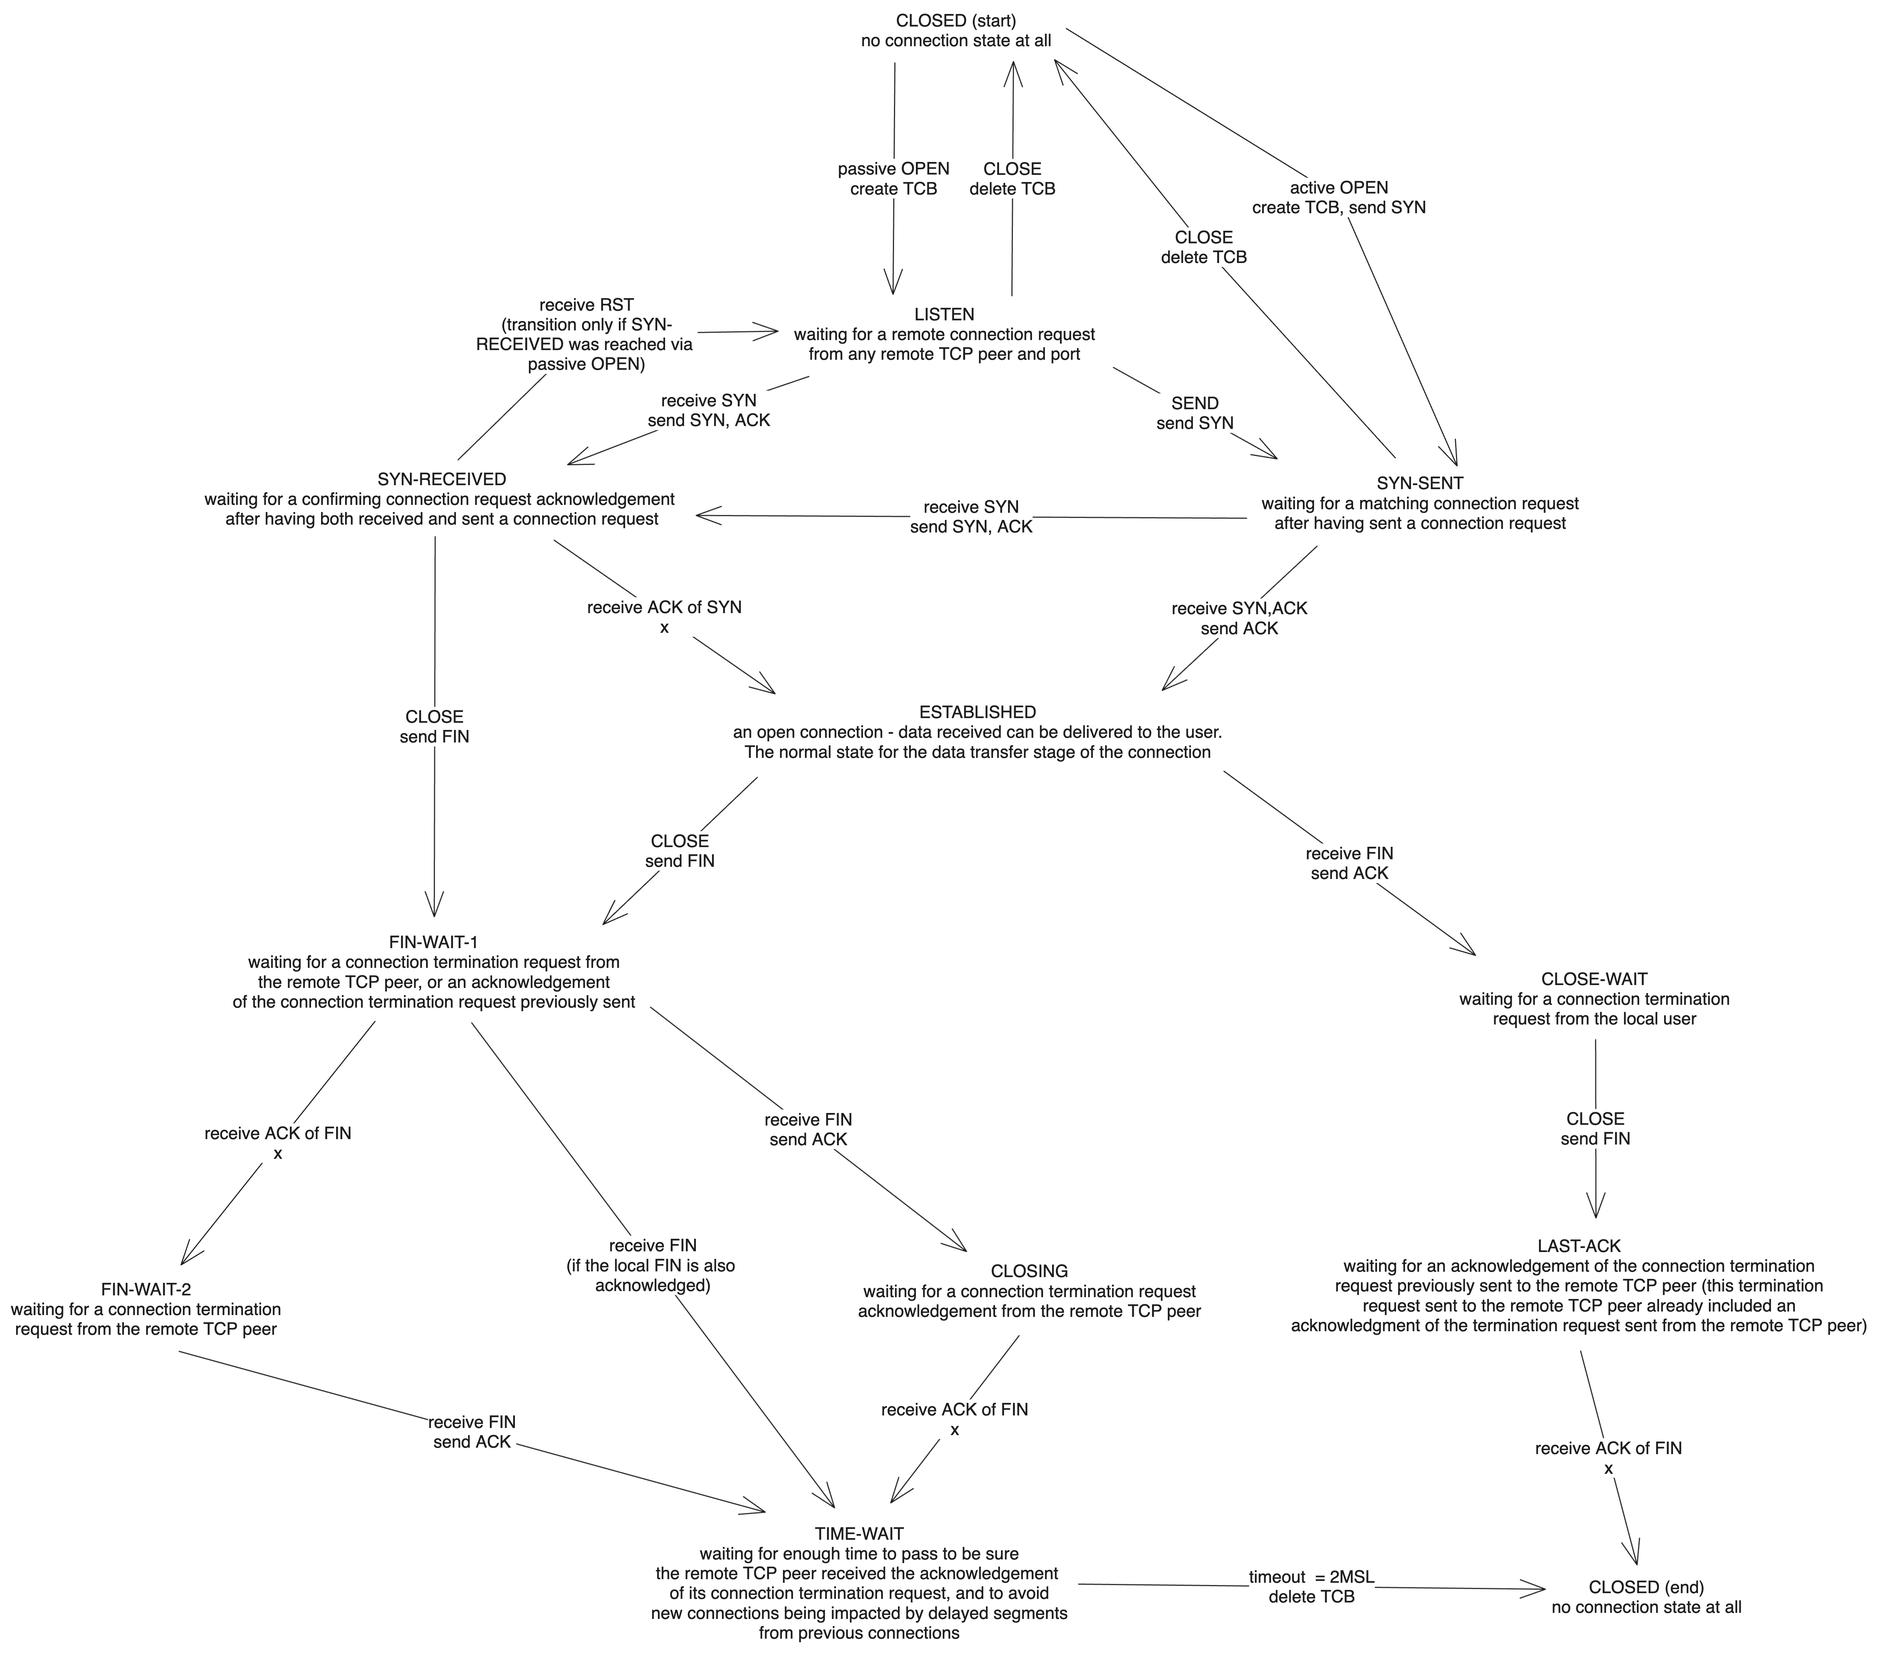
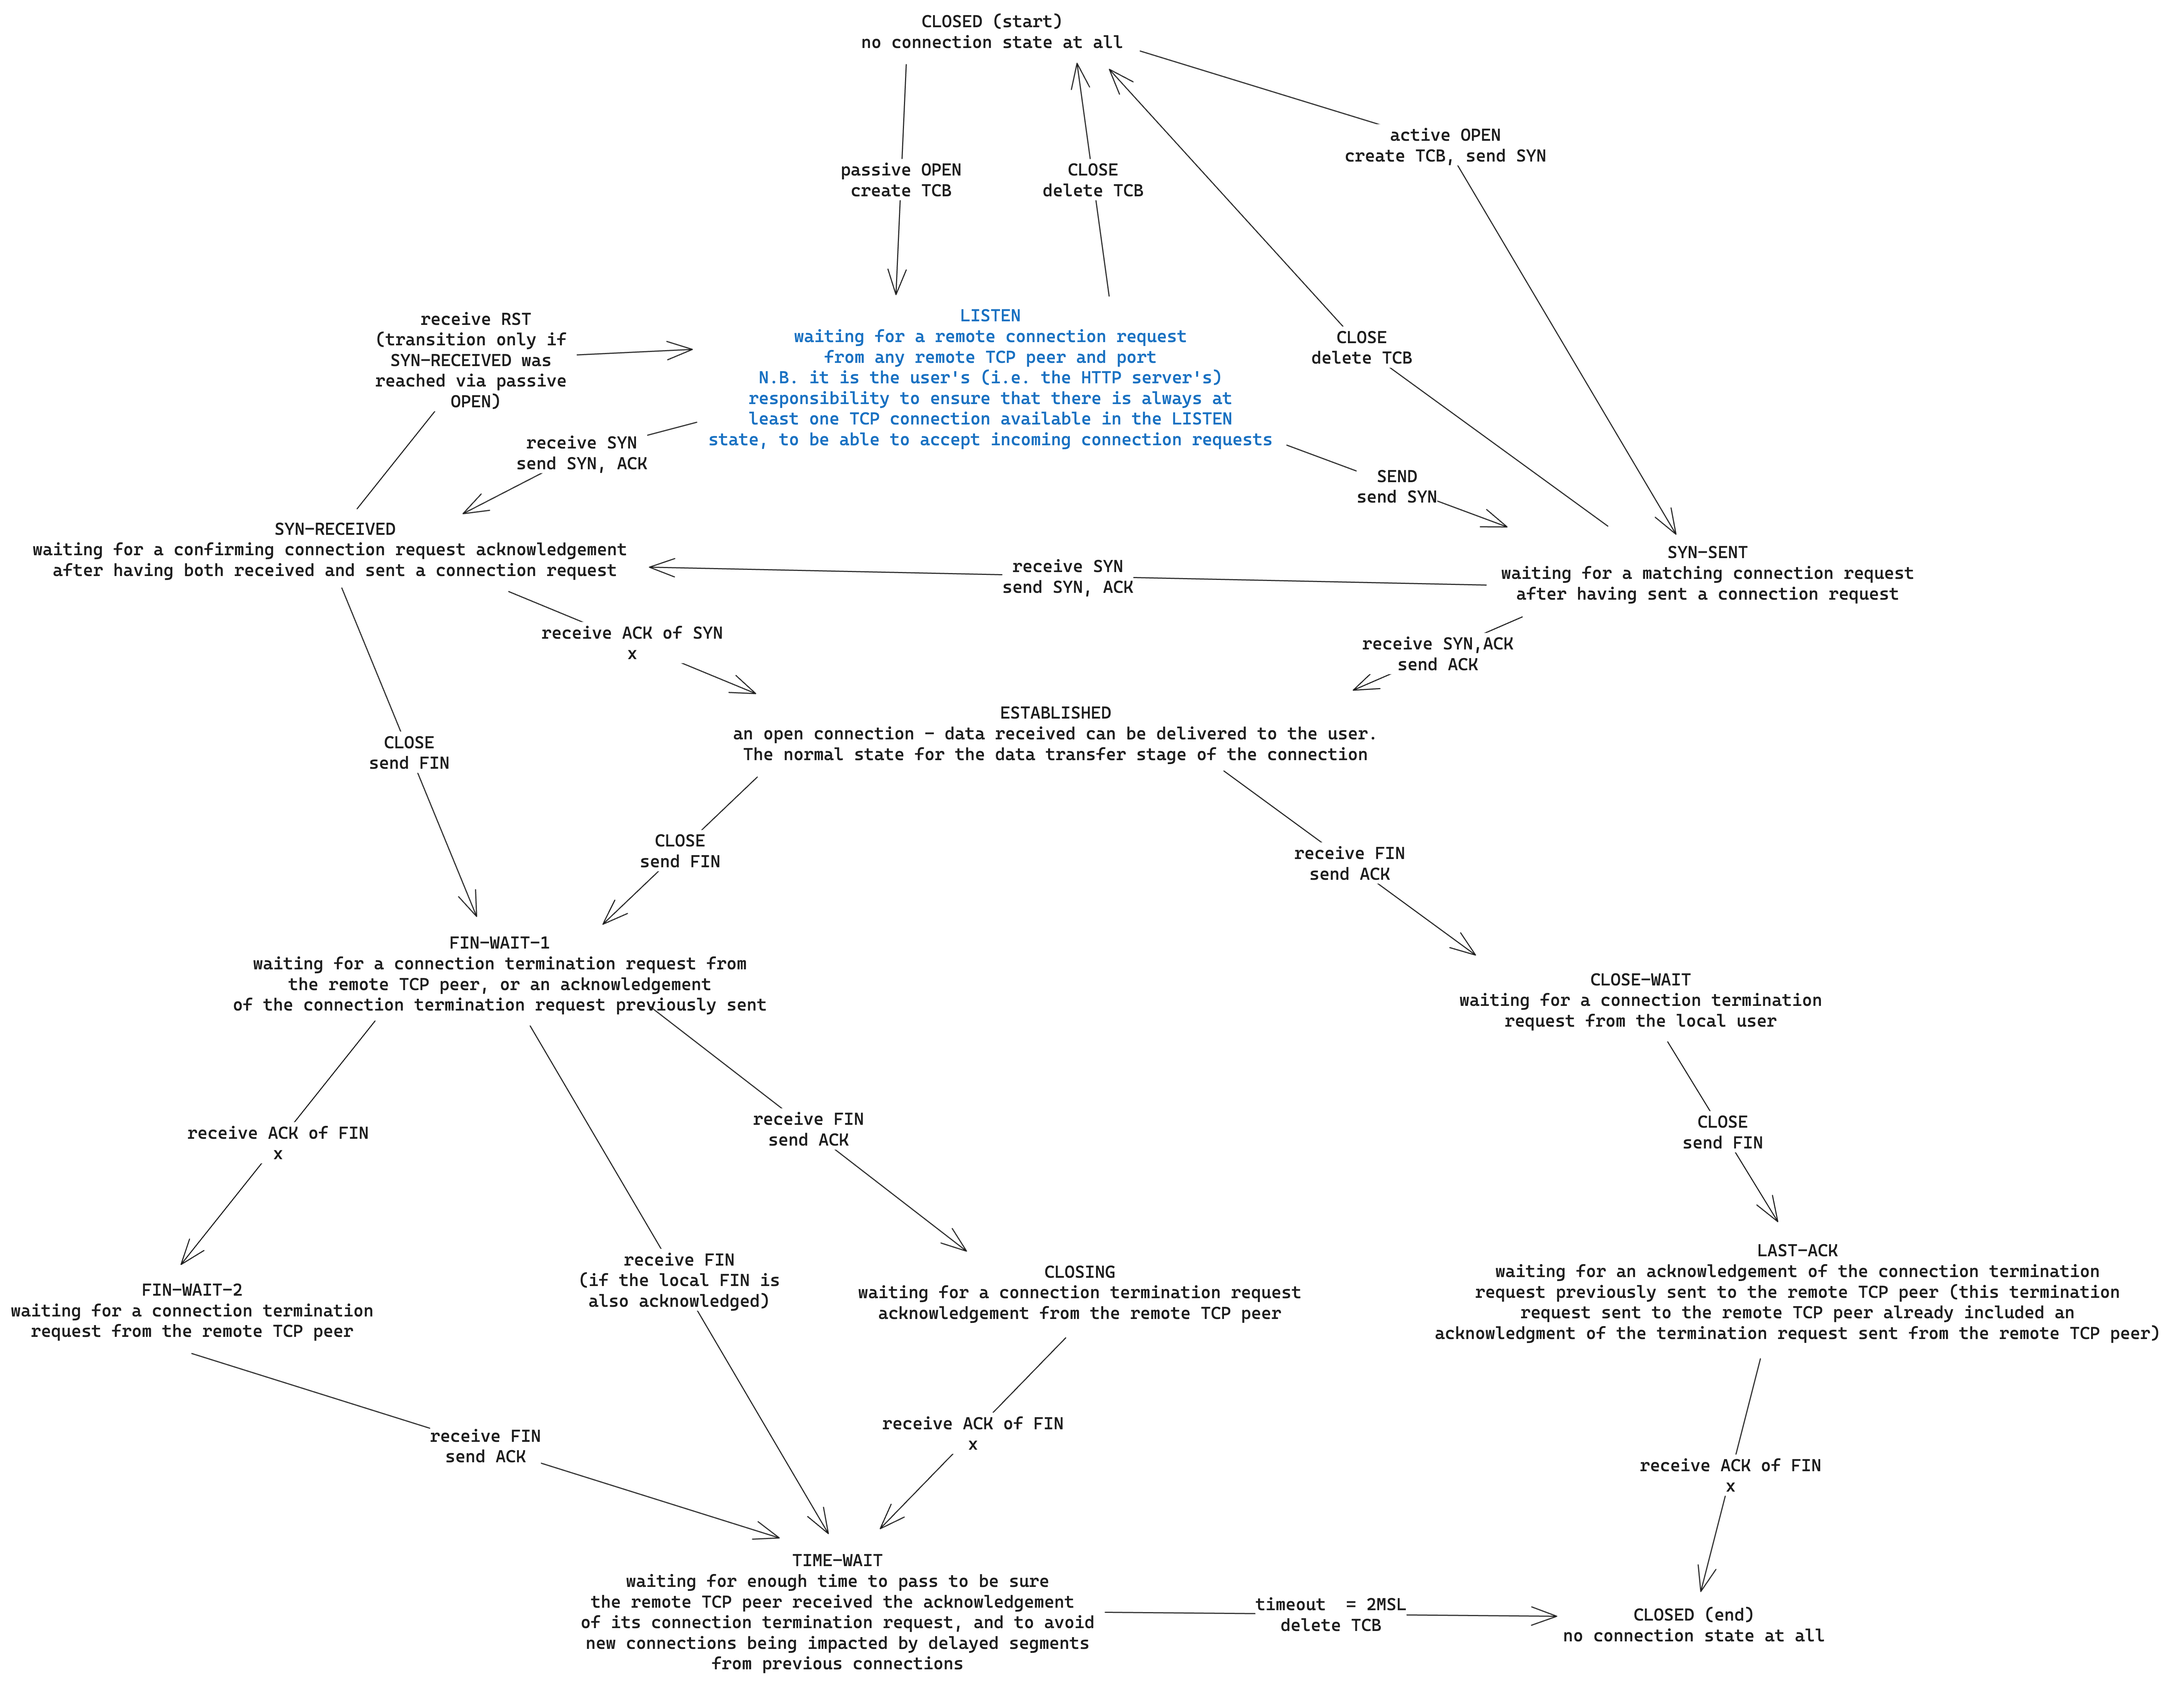
sketching out TCP implementation

diff --git a/tcp/main.c b/tcp/main.c
@@ -32,11 +32,17 @@ typedef struct {
   ip_datagram_type type;
 } ip_datagram;
 
-typedef enum { OPEN, CLOSE } user_action_type;
+typedef enum { OPEN, SEND, RECEIVE, CLOSE, ABORT, STATUS } user_action_type;
 
 typedef struct {
   user_action_type type;
 } user_action;
+
+typedef enum {
+  USER_TIMEOUT,
+  RETRANSMISSION_TIMEOUT,
+  TIME_WAIT_TIMEOUT
+} timeout_type;
 
 // threads:
 // 1. main thread: accept and process incoming packets
@@ -54,37 +60,52 @@ user_action take_user_action(void) {
   // TODO
 }
 
-void process_syn(ip_datagram datagram, connection *connections) {
+void process_syn(ip_datagram datagram, connection *connection) {
   // TODO
 }
 
-void process_ack(ip_datagram datagram, connection *connections) {
+void process_ack(ip_datagram datagram, connection *connection) {
   // TODO
 }
 
-void process_fin(ip_datagram datagram, connection *connections) {
+void process_fin(ip_datagram datagram, connection *connection) {
   // TODO
+}
+
+connection *find_datagram_connection(ip_datagram datagram) {
+  // TODO
+  // A natural way to think about processing incoming segments is to imagine
+  // that they are first tested for proper sequence number (i.e., that their
+  // contents lie in the range of the expected "receive window" in the sequence
+  // number space) and then that they are generally queued and processed in
+  // sequence number order.
 }
 
 void process_datagram(ip_datagram datagram, connection *connections) {
+  connection *conn = find_datagram_connection();
   switch (datagram.type) {
   case SYN: {
-    process_syn(datagram, connections);
+    process_syn(datagram, conn);
     break;
   }
   case ACK: {
-    process_ack(datagram, connections);
+    process_ack(datagram, conn);
     break;
   }
   case FIN: {
-    process_fin(datagram, connections);
+    process_fin(datagram, conn);
     break;
   }
   }
 }
 
 void process_open(user_action action, connection *connections) {
-  // TODO
+  // 1. create new connection
+  // 2. fill in fields on connection - some will be left blank until later if
+  //    mode is passive
+  // 3. obtain mutex
+  // 4. add connection to connections array
+  // 5. release mutex
 }
 
 void process_close(user_action action, connection *connections) {
@@ -118,6 +139,12 @@ void handle_incoming_datagrams(connection *connections) {
   }
 }
 
+void handle_timeouts(connection *connections) {
+  while (1) {
+    // TODO -
+  }
+}
+
 int main(void) {
   connection *connections = malloc(sizeof(connection) * MAX_CONNECTIONS);
   if (connections == 0) {
@@ -125,8 +152,19 @@ int main(void) {
     exit(1);
   }
 
-  // TODO - create user action handling thread
-  // TODO - create timeout handling thread
+  pthread_t user_action_handler_thread_id;
+  if (pthread_create(&user_action_handler_thread_id, NULL, handle_user_actions,
+                     connections) != 0) {
+    fprintf(stderr, "Failed to create user action handling thread\n");
+    exit(1);
+  };
+
+  pthread_t timeout_handler_thread_id;
+  if (pthread_create(&timeout_handler_thread_id, NULL, handle_timeouts,
+                     connections) != 0) {
+    fprintf(stderr, "Failed to create timeout handling thread\n");
+    exit(1);
+  };
 
   handle_incoming_datagrams(connections);
 }

diff --git a/TODO.md b/TODO.md
@@ -1,10 +1,18 @@
 # TODO
 
-### Work through beej book
-
 ### TCP
 
-- write my own implementation of TCP, and drop down to using raw IP sockets
+- implement TCP
+- success condition is a program that:
+  - opens a single passive connection to serve my website
+  - can be used to serve a single HTTP request/response
+  - then the connection closes...
+
+### HTTP
+
+- build http server on top of TCP implementation
+- basically needs to ensure that at least one TCP connection is always in LISTEN state
+- should actually parse request and send appropriate response (not just send response immediately on connecting!)
 
 ### HTTPS
 
